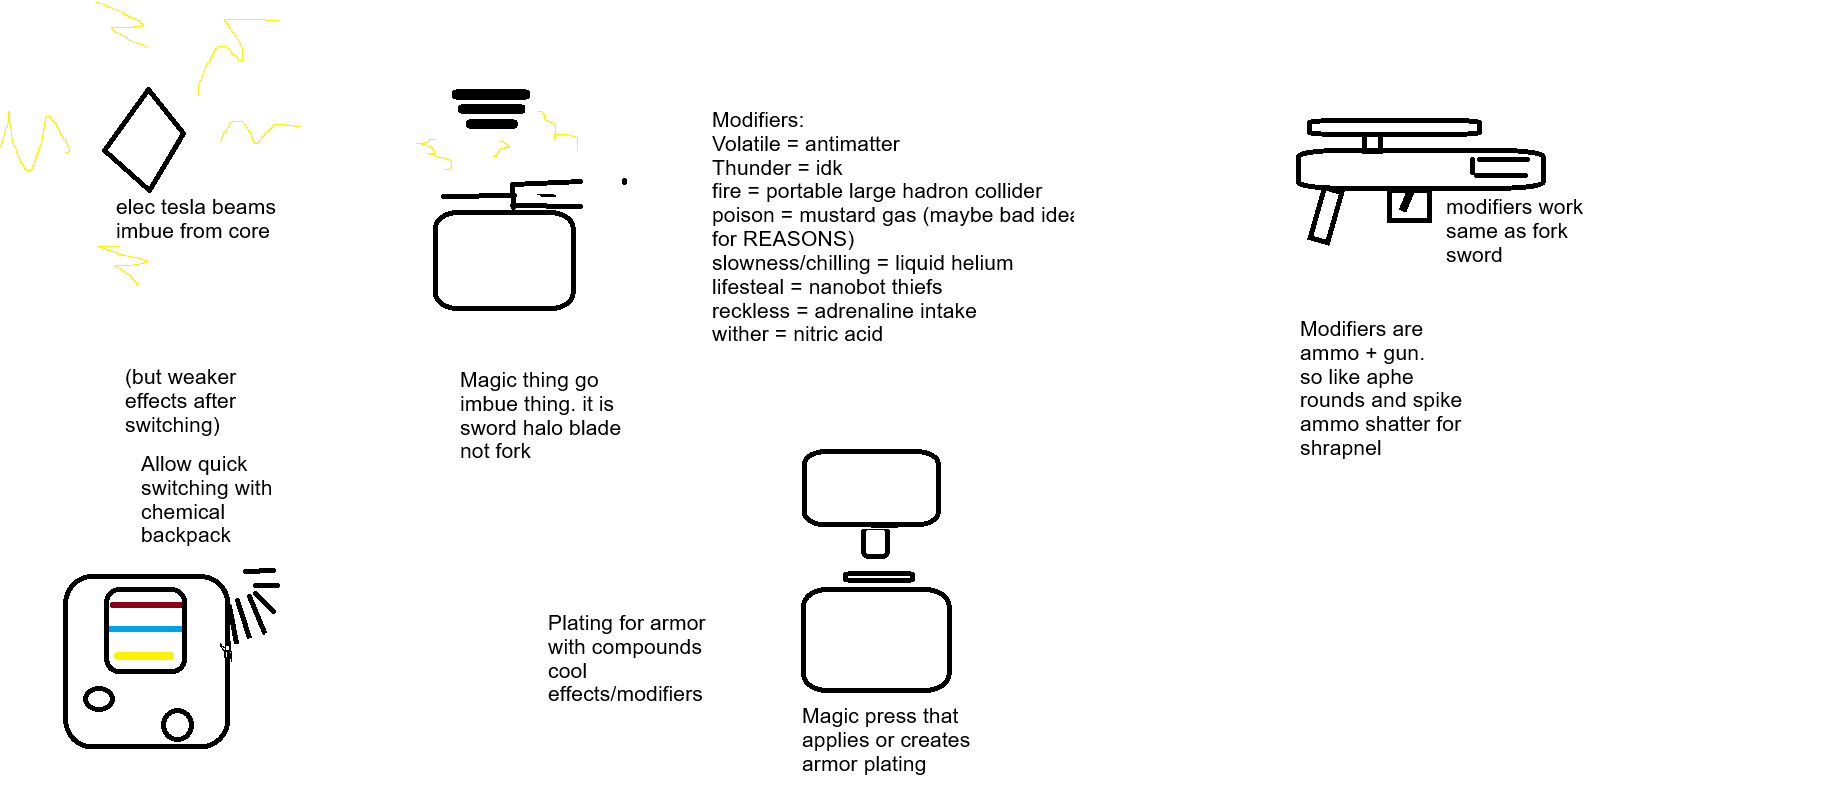
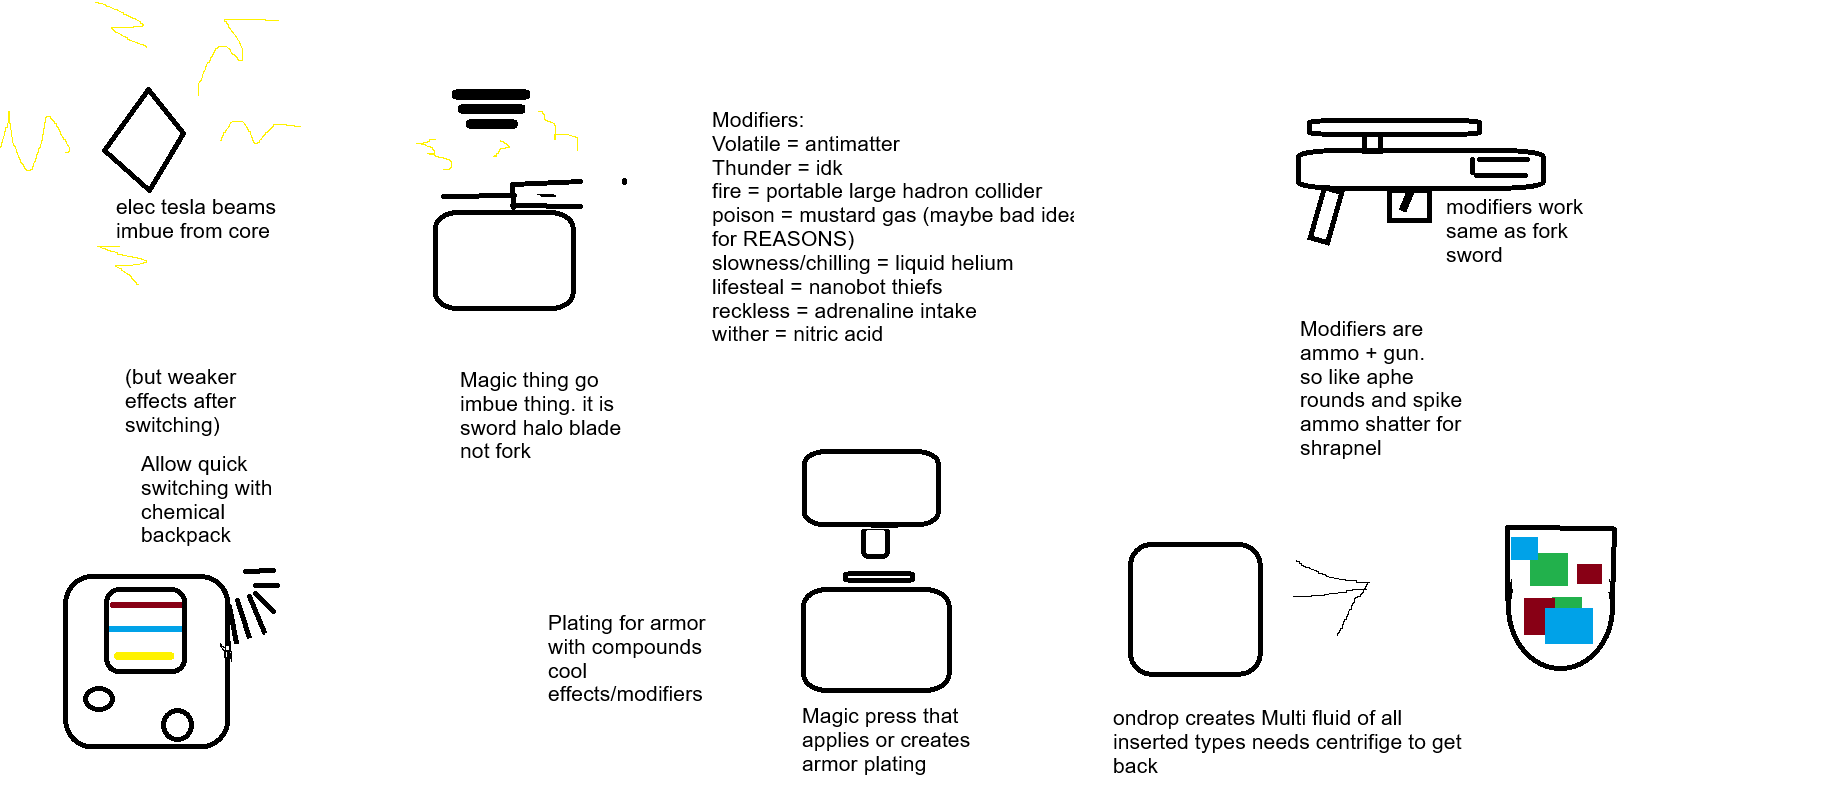
Further work on chemicalfactory

diff --git a/src/main/java/com/mewo/mewosgear/content/block/functional/chemicalfactory/BlockEntityChemicalFactory.java b/src/main/java/com/mewo/mewosgear/content/block/functional/chemicalfactory/BlockEntityChemicalFactory.java
@@ -1,5 +1,7 @@
 package com.mewo.mewosgear.content.block.functional.chemicalfactory;
 
+import com.mewo.mewosgear.content.fluid.MultiFluidTankHandler;
+import com.mewo.mewosgear.content.fluid.MultiFluidTankHandler.TankEntry;
 import com.mewo.mewosgear.content.registry.ModBlockEntities;
 import net.minecraft.core.BlockPos;
 import net.minecraft.core.Direction;
@@ -17,25 +19,53 @@ import net.minecraft.world.level.block.entity.BlockEntity;
 import net.minecraft.world.level.block.state.BlockState;
 import net.minecraftforge.common.capabilities.Capability;
 import net.minecraftforge.common.util.LazyOptional;
+import net.minecraftforge.energy.EnergyStorage;
+import net.minecraftforge.energy.IEnergyStorage;
+import net.minecraftforge.fluids.capability.IFluidHandler;
+import net.minecraftforge.fluids.capability.templates.FluidTank;
 import net.minecraftforge.items.IItemHandler;
 import net.minecraftforge.items.ItemStackHandler;
 import org.jetbrains.annotations.NotNull;
 import org.jetbrains.annotations.Nullable;
 
+import static com.mewo.mewosgear.content.fluid.MultiFluidTankHandler.TankType.*;
 import static net.minecraftforge.common.capabilities.ForgeCapabilities.*;
 
 public class BlockEntityChemicalFactory extends BlockEntity implements MenuProvider {
 
     // Constants
-    public static final int SLOT_COUNT = 3;
-    public static final int INPUT_SLOT = 0;
-    public static final int OUTPUT_SLOT = 1;
+    public static final int SLOT_COUNT = 4;
+    public static final int INPUT_SLOT_1 = 0;
+    public static final int INPUT_SLOT_2= 1;
+    public static final int OUTPUT_SLOT_1 = 2;
+    public static final int OUTPUT_SLOT_2 = 3;
+    public static final int FLUID_CAPACITY = 4000;
+    public static final int ENERGY_CAPACITY = 16000;
+    public static final int ENERGY_RECEIVE = 2000;
+    public static final int ENERGY_EXTRACT = 2000;
 
     // Capabilities
+
+    // Item
     private final ItemStackHandler itemHandler = new ItemStackHandler(SLOT_COUNT);
     LazyOptional<IItemHandler> lazyItemHandler = LazyOptional.empty();
 
-//    private FluidHandler
+    // Fluid
+    private final FluidTank inputTank = new FluidTank(FLUID_CAPACITY);
+    private final FluidTank inputTank1 = new FluidTank(FLUID_CAPACITY);
+    private final FluidTank outputTank = new FluidTank(FLUID_CAPACITY);
+    private final FluidTank outputTank1 = new FluidTank(FLUID_CAPACITY);
+    private MultiFluidTankHandler fluidTankHandler = new MultiFluidTankHandler(new TankEntry[]{
+            new TankEntry(inputTank, INPUT),
+            new TankEntry(inputTank1, INPUT),
+            new TankEntry(outputTank, OUTPUT),
+            new TankEntry(outputTank1, OUTPUT)
+    });
+    LazyOptional<IFluidHandler> lazyFluidHandler = LazyOptional.empty();
+
+    // Electricity
+    private final EnergyStorage energyStorage = new EnergyStorage(ENERGY_CAPACITY, ENERGY_RECEIVE, ENERGY_EXTRACT);
+    LazyOptional<IEnergyStorage> lazyEnergyHandler = LazyOptional.empty();
 
     // Data
     protected ContainerData containerData;
@@ -91,7 +121,8 @@ public class BlockEntityChemicalFactory extends BlockEntity implements MenuProvi
     @Override
     public @NotNull <T> LazyOptional<T> getCapability(@NotNull Capability<T> cap, Direction side) {
         if (cap == ITEM_HANDLER) return lazyItemHandler.cast();
-//        if (cap == FLUID_HANDLER) return ;
+        else if (cap == FLUID_HANDLER) return lazyFluidHandler.cast();
+        else if (cap == ENERGY) return lazyEnergyHandler.cast();
 
         return super.getCapability(cap, side);
     }
@@ -100,26 +131,29 @@ public class BlockEntityChemicalFactory extends BlockEntity implements MenuProvi
     public void onLoad() {
         super.onLoad();
         lazyItemHandler = LazyOptional.of(() -> itemHandler);
+        lazyFluidHandler = LazyOptional.of(() -> fluidTankHandler);
+
     }
 
     @Override
     public void invalidateCaps() {
         super.invalidateCaps();
         lazyItemHandler.invalidate();
+        lazyFluidHandler.invalidate();
     }
 
     @Override
     protected void saveAdditional(CompoundTag nbt) {
         nbt.put("inventory", itemHandler.serializeNBT());
-
+        fluidTankHandler.serializeNBT(nbt);
         super.saveAdditional(nbt);
     }
 
     @Override
     public void load(CompoundTag nbt) {
         super.load(nbt);
-
         itemHandler.deserializeNBT(nbt.getCompound("inventory"));
+        fluidTankHandler.deserializeNBT(nbt);
     }
 }
 

diff --git a/src/main/java/com/mewo/mewosgear/content/fluid/MultiFluidTankHandler.java b/src/main/java/com/mewo/mewosgear/content/fluid/MultiFluidTankHandler.java
@@ -1,0 +1,118 @@
+package com.mewo.mewosgear.content.fluid;
+
+import net.minecraft.nbt.CompoundTag;
+import net.minecraftforge.fluids.FluidStack;
+import net.minecraftforge.fluids.FluidType;
+import net.minecraftforge.fluids.capability.IFluidHandler;
+import net.minecraftforge.fluids.capability.templates.FluidTank;
+import org.jetbrains.annotations.NotNull;
+
+import java.util.*;
+
+public class MultiFluidTankHandler implements IFluidHandler {
+    public enum TankType { INPUT, OUTPUT }
+    public record TankEntry(FluidTank tank, TankType type) {}
+
+    private final List<TankEntry> tanks = new ArrayList<>();
+
+    public MultiFluidTankHandler(TankEntry[] tanks) {
+        this.tanks.addAll(Arrays.asList(tanks));
+    }
+
+    @Override
+    public int getTanks() {
+        return tanks.size();
+    }
+
+    @Override
+    public @NotNull FluidStack getFluidInTank(int i) {
+        return tanks.get(i).tank().getFluid();
+    }
+
+    @Override
+    public int getTankCapacity(int i) {
+        return tanks.get(i).tank().getCapacity();
+    }
+
+    @Override
+    public boolean isFluidValid(int i, @NotNull FluidStack fluidStack) {
+        return tanks.get(i).tank().isFluidValid(fluidStack);
+    }
+
+    @Override
+    public int fill(FluidStack fluidStack, FluidAction fluidAction) {
+        int filled = 0;
+        int total = fluidStack.getAmount();
+
+        for (TankEntry tankEntry : tanks) {
+            if (tankEntry.type() == TankType.OUTPUT) continue;
+            FluidTank fluidTank = tankEntry.tank();
+            if (total <= 0) break;
+            if (!fluidTank.isFluidValid(fluidStack)) continue;
+            FluidStack toFill = new FluidStack(fluidStack, total);
+            int currentFill = fluidTank.fill(toFill, fluidAction);
+            filled += currentFill;
+            total -= currentFill;
+        }
+
+        return filled;
+    }
+
+    @Override
+    public @NotNull FluidStack drain(FluidStack fluidStack, FluidAction fluidAction) {
+        FluidType fluidType = fluidStack.getFluid().getFluidType();
+        int requestedAmount = fluidStack.getAmount();
+        int remaining = requestedAmount;
+        FluidStack toReturn = FluidStack.EMPTY;
+
+        for (TankEntry tankEntry : tanks) {
+            FluidTank fluidTank = tankEntry.tank();
+            if (remaining <= 0) break;
+            if (fluidTank.getFluid().getFluid().getFluidType() != fluidType) continue;
+
+            FluidStack drained = fluidTank.drain(remaining, fluidAction);
+            if (toReturn.isEmpty()) toReturn = drained.copy();
+            else toReturn.grow(drained.getAmount());
+            remaining = requestedAmount - toReturn.getAmount();
+        }
+
+        return toReturn;
+    }
+
+    @Override
+    public @NotNull FluidStack drain(int maxDrain, FluidAction fluidAction) {
+        int remaining = maxDrain;
+        FluidStack toReturn = FluidStack.EMPTY;
+        FluidType fluidType = null;
+
+        for (TankEntry tankEntry : tanks) {
+            FluidTank fluidTank = tankEntry.tank();
+            if (remaining <= 0) break;
+            FluidType tankFluidType = fluidTank.getFluid().getFluid().getFluidType();
+            if (fluidType == null) fluidType = tankFluidType;
+            else if (fluidType != tankFluidType) continue;
+
+            FluidStack drained = fluidTank.drain(remaining, fluidAction);
+            if (drained.isEmpty()) continue;
+            if (toReturn.isEmpty()) toReturn = drained.copy();
+            else toReturn.grow(drained.getAmount());
+            remaining = maxDrain - toReturn.getAmount();
+        }
+
+        return toReturn;
+    }
+
+    public void serializeNBT(CompoundTag compoundTag) {
+        for (int i = 0; i < tanks.size(); i++) {
+            TankEntry tankEntry = tanks.get(i);
+            compoundTag.put(tankEntry.type() + "_" + i, tankEntry.tank().writeToNBT(new CompoundTag()));
+        }
+    }
+
+    public void deserializeNBT(CompoundTag compoundTag) {
+        for (int i = 0; i < tanks.size(); i++) {
+            TankEntry tankEntry = tanks.get(i);
+            tankEntry.tank().readFromNBT(compoundTag.getCompound(tankEntry.type() + "_" + i));
+        }
+    }
+}

diff --git a/src/main/java/com/mewo/mewosgear/content/block/functional/chemicalfactory/MenuChemicalFactory.java b/src/main/java/com/mewo/mewosgear/content/block/functional/chemicalfactory/MenuChemicalFactory.java
@@ -35,8 +35,10 @@ public class MenuChemicalFactory extends AbstractContainerMenu {
         addPlayerHotbar(inventory);
 
         this.blockEntity.getCapability(ForgeCapabilities.ITEM_HANDLER).ifPresent(iItemHandler -> {
-            this.addSlot(new SlotItemHandler(iItemHandler, 0, 10, 100));
-            this.addSlot(new SlotItemHandler(iItemHandler, 1, 100, 100));
+            this.addSlot(new SlotItemHandler(iItemHandler, 0, 52, 9));
+            this.addSlot(new SlotItemHandler(iItemHandler, 1, 52, 29));
+            this.addSlot(new SlotItemHandler(iItemHandler, 2, 150, 9));
+            this.addSlot(new SlotItemHandler(iItemHandler, 3, 150, 29));
         });
         System.out.println("created menu atually");
         addDataSlots(data);
@@ -81,6 +83,6 @@ public class MenuChemicalFactory extends AbstractContainerMenu {
 
     @Override
     public boolean stillValid(Player player) {
-        return stillValid(ContainerLevelAccess.create(level, blockEntity.getBlockPos()), player, ModBlocks.TOOL_MODIFICATION_TABLE.get());
+        return stillValid(ContainerLevelAccess.create(level, blockEntity.getBlockPos()), player, ModBlocks.CHEMICAL_FACTORY.get());
     }
 }

diff --git a/src/main/java/com/mewo/mewosgear/content/block/functional/chemicalfactory/ScreenChemicalFactory.java b/src/main/java/com/mewo/mewosgear/content/block/functional/chemicalfactory/ScreenChemicalFactory.java
@@ -54,8 +54,8 @@ public class ScreenChemicalFactory extends AbstractContainerScreen<MenuChemicalF
     @Override
     public void render(GuiGraphics graphics, int mX, int mY, float delta) {
         renderBackground(graphics);
+        drawSlots(graphics);
         super.render(graphics, mX, mY, delta);
         renderTooltip(graphics, mX, mY);
-        drawSlots(graphics);
     }
 }
